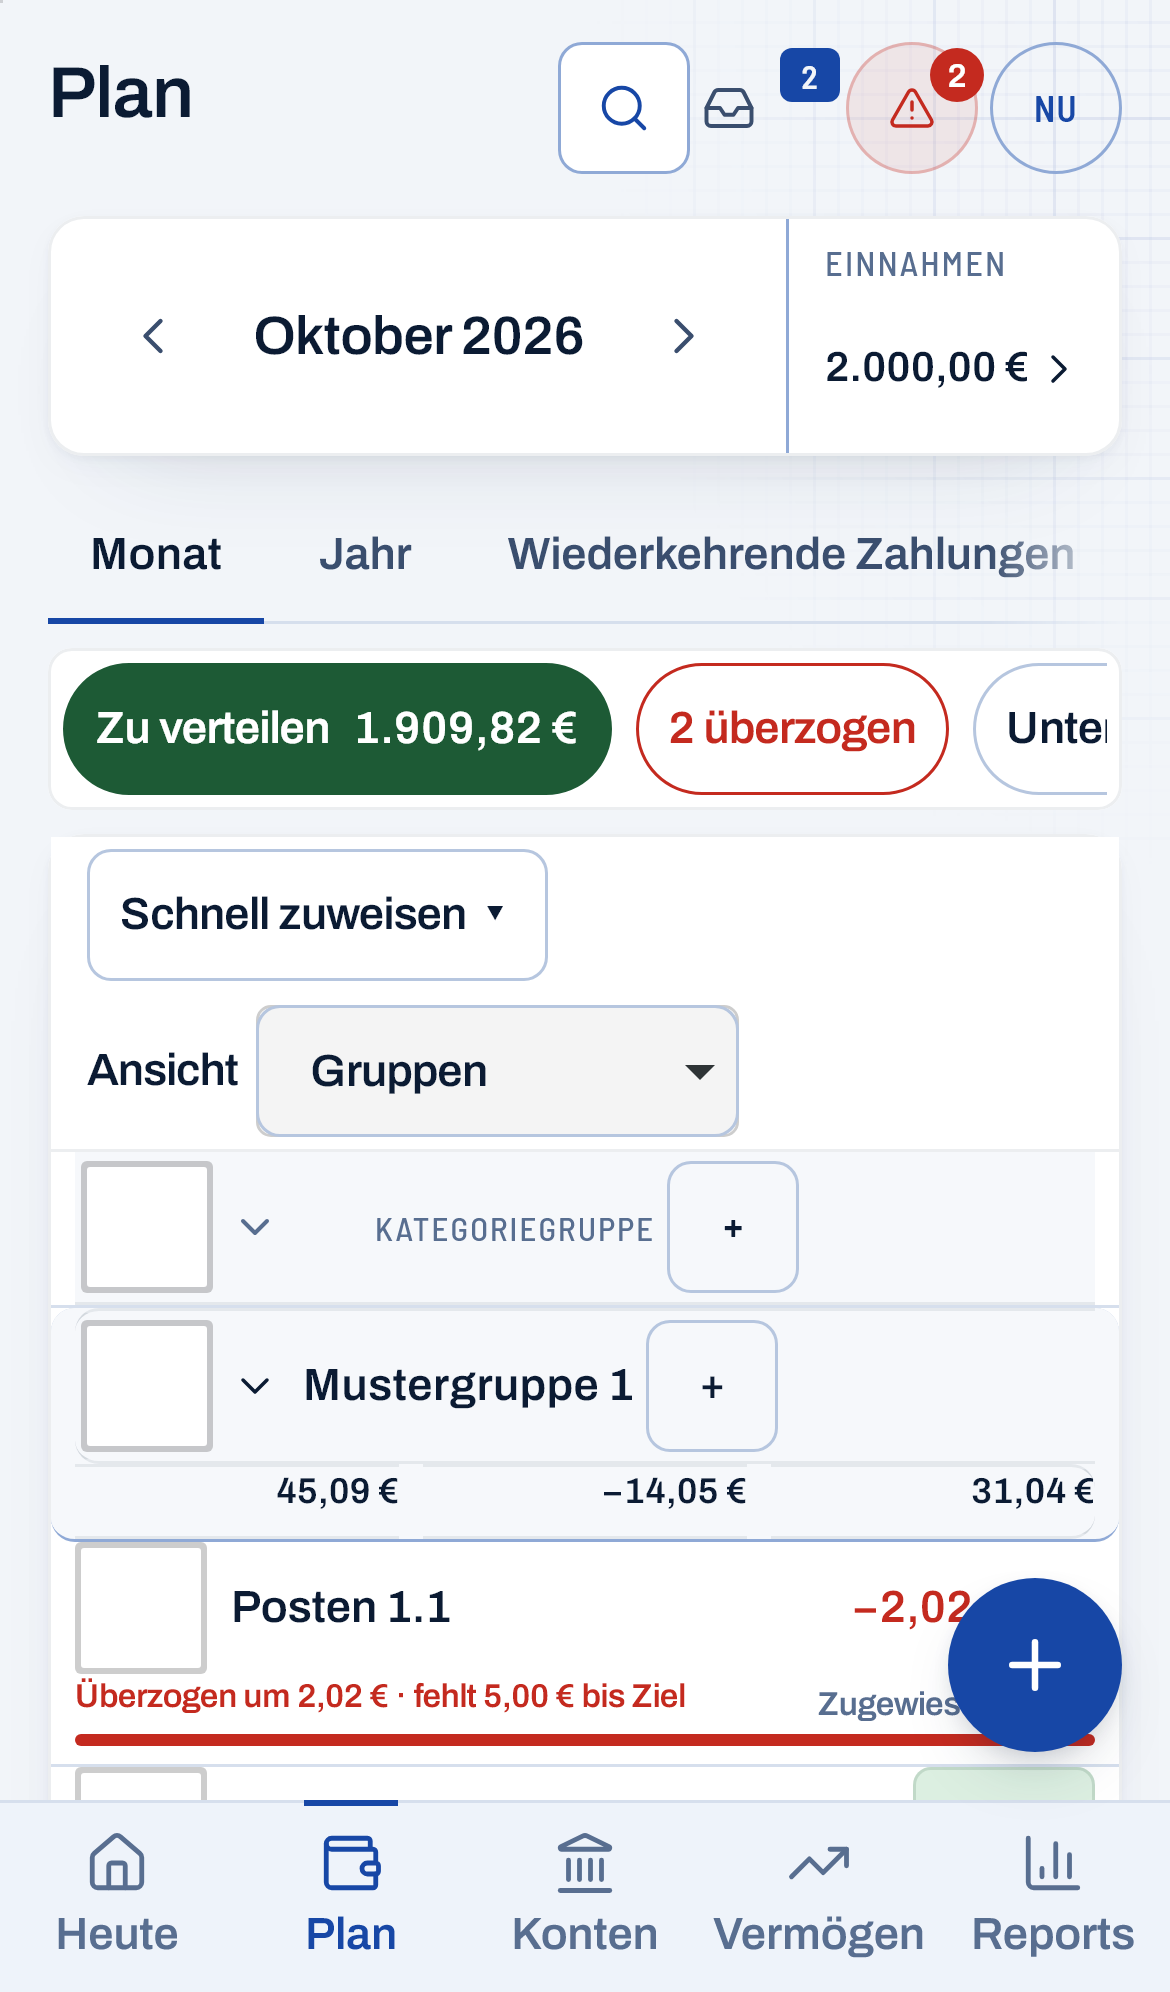
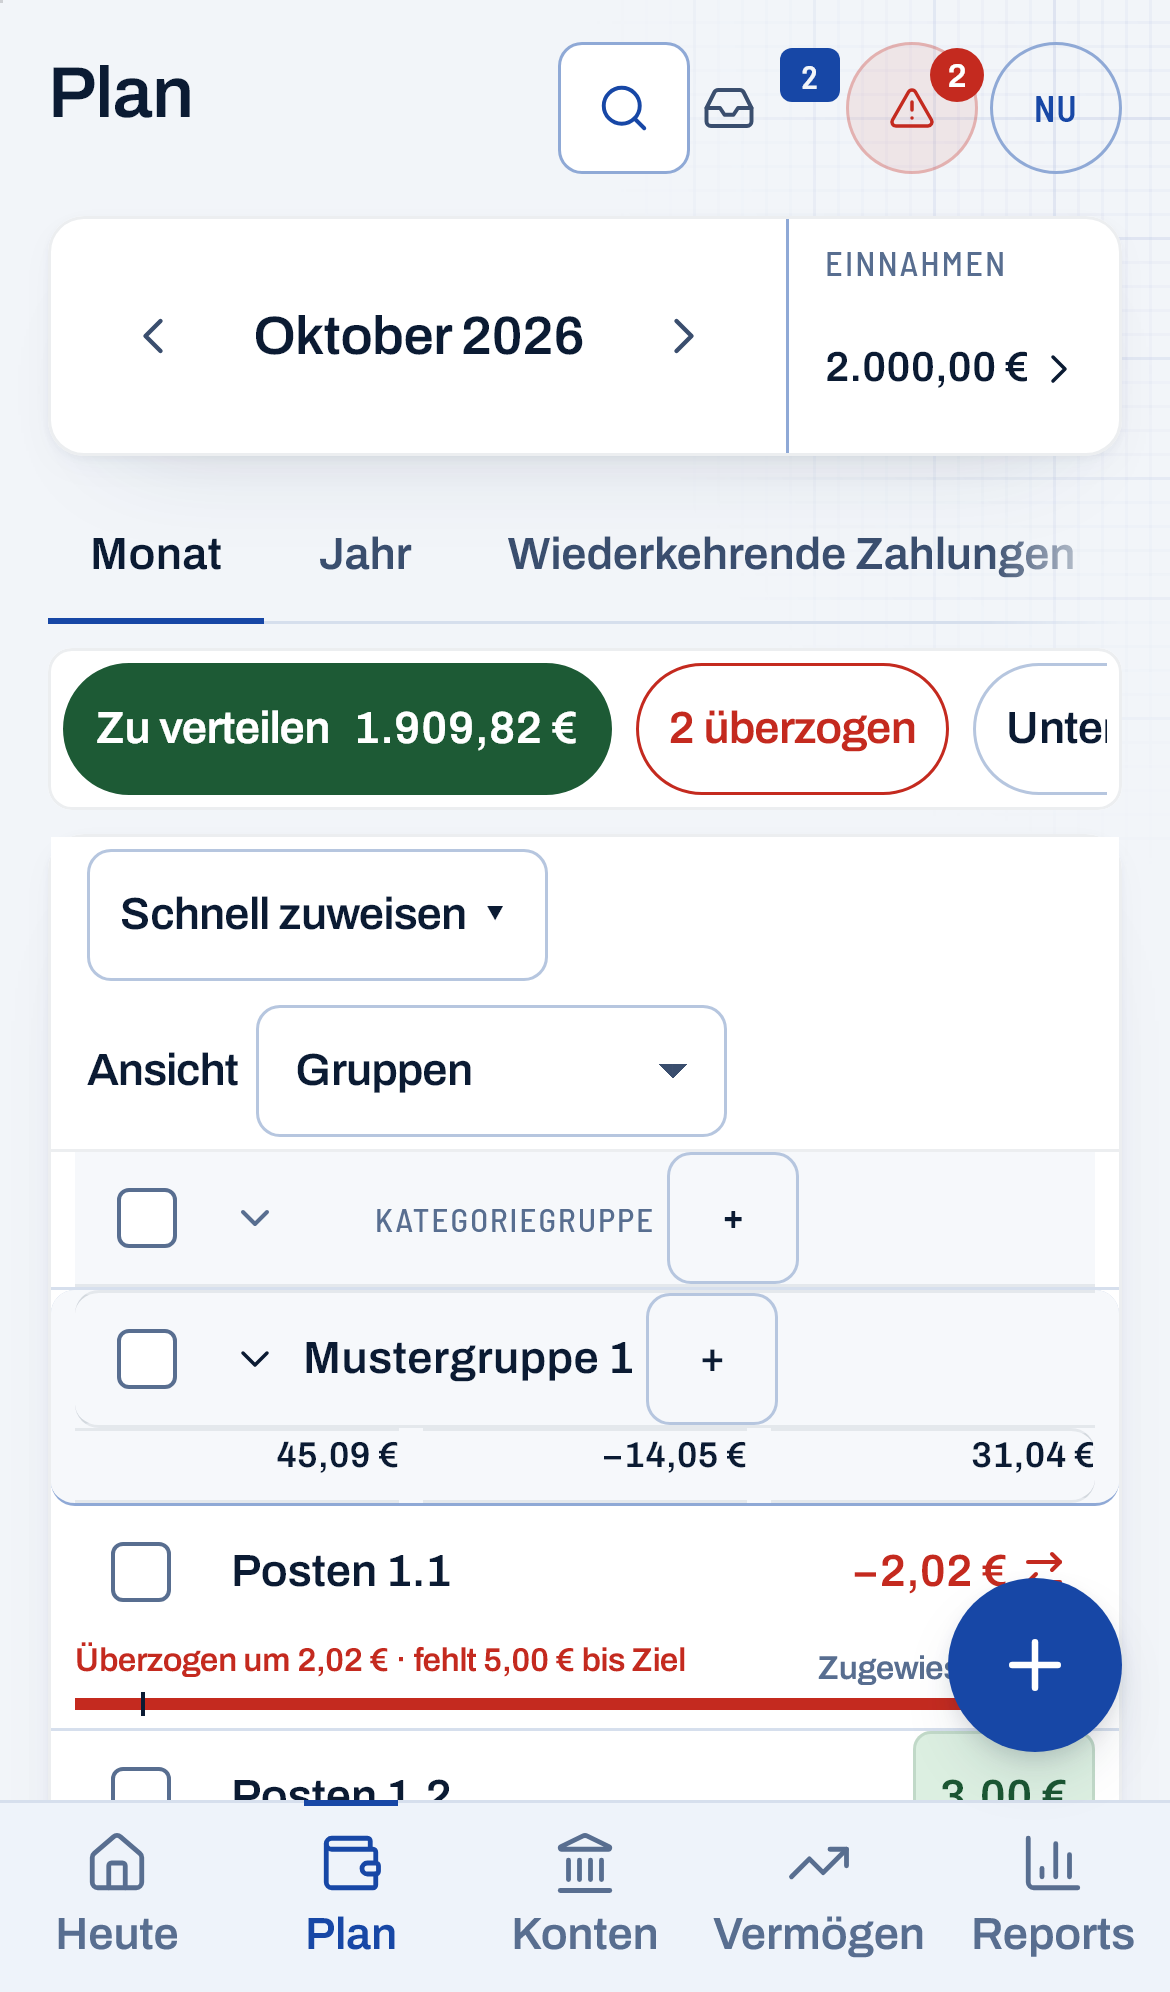
test(plan): verify current checkboxes and phone target dimensions

diff --git a/e2e/plan-compact-grid.spec.ts b/e2e/plan-compact-grid.spec.ts
@@ -184,9 +184,9 @@ test('compact groups retain cent totals, add controls, keyboard and multiple mon
   });
   for (const scheme of ['light', 'dark'] as const) {
     await page.emulateMedia({ colorScheme: scheme });
-    expect(
-      await page.evaluate(() => document.documentElement.scrollWidth <= window.innerWidth),
-    ).toBe(true);
+    expect(await page.evaluate(() => document.documentElement.scrollWidth)).toBeLessThanOrEqual(
+      page.viewportSize()!.width,
+    );
     if (!desktop) {
       const rows = await page
         .locator('.ptable .prow')
@@ -208,11 +208,14 @@ test('compact groups retain cent totals, add controls, keyboard and multiple mon
         '.plan-topbar summary',
         '.plan-chip-scroll > .btn',
       ]) {
-        const heights = await page
-          .locator(selector)
-          .evaluateAll((elements) => elements.map((e) => e.getBoundingClientRect().height));
+        const sizes = await page.locator(selector).evaluateAll((elements) =>
+          elements.map((e) => {
+            const rect = e.getBoundingClientRect();
+            return { width: rect.width, height: rect.height };
+          }),
+        );
         expect(
-          heights.every((h) => h >= 44),
+          sizes.every(({ width, height }) => width >= 44 && height >= 44),
           selector,
         ).toBe(true);
       }

diff --git a/docs/evidence/plan-zerosum-grid/PR.md b/docs/evidence/plan-zerosum-grid/PR.md
@@ -1,31 +1,21 @@
-Plan month category rows now show net spending, target shortfall and a green two-tone bar instead of class swatches/progress. Group header bands have rounded corners and gaps, selection checkboxes and inline category creation; the table header owns select-all, collapse-all and group creation. Existing colours, cent guards, audited writes and undo remain.
+Plan month rows now show cent-exact spending status and a green two-tone bar. Rounded group bands and the table header contain group/overall selection, collapse and creation controls. Desktop inline editing and the existing assignment, cover, move, quick-assignment and undo paths remain shared.
 
-On phones, chips scroll in one sticky line. Rows use name/available, status/assigned and bar, with the available pill opening the existing inspector. Cover and distribution proposal controls stay on the first line. Alternative views, C/G shortcuts, desktop inline editing and multiple months remain available. The chip panels sit outside their horizontal scroller to keep disclosures visible; Escape restores their trigger focus.
+Phone rows put the name and available amount first, followed by spending/assignment and the bar. Chips use one sticky scrolling line, and the available pill opens the existing inspector. C/G shortcuts, alternative views and multiple months remain available. The branch includes the global checkbox/select correction and the saved-order regression fix.
 
-Refs #448
+## Validation
 
-Validation (synthetic local ledgers only):
+Fresh web TypeScript, CSS scale and E2E build passed; 19 targeted unit tests passed. All 28 affected Playwright cases passed across desktop, Chromium phone and WebKit, covering contact rename, group/category creation, scale, pace markers, quick assignment, inspector actions, exact cents, cover, move, guards, rollover and undo.
 
-- Web package `tsc`: exit 0. Changed TypeScript ESLint, Prettier and CSS scale checks: exit 0. `git diff --check`: clean.
-- Affected Vitest files (`plan-model.test.ts`, `plan-form-dialogs.test.tsx`): **19 passed**. Spending cases cover exact cents, refunds, exhausted/empty/overspent envelopes and one-cent target shortfall; the two new tests failed before implementation.
-- `npm run build:e2e`: exit 0; subsequent web-only rebuilds verified display corrections. Existing dependency annotation, mixed-import and bundle-size warnings remain.
-- Changed Plan E2E specs (`plan-compact-grid`, `plan-inspector`, `plan`): **16 passed** including setup, desktop and Chromium mobile. After the final pill alignment/rounded-band polish, compact-grid rerun: **6 passed**, including desktop, Chromium mobile and WebKit iPhone.
-- Desktop retains the existing stricter ≤40px row/≤36px group/fold assertions. Phone rows ≤76px, chip bar ≤56px, touch targets ≥44px, no horizontal page overflow and zero main-content Axe violations in light/dark. Literal cent totals, selection, keyboard creation/collapse, arithmetic assignment, guard refusal, cover, move, quick assignment, undo and rollover remain tested.
-- E2E used `E2E_PORT=5020 E2E_START_TIMEOUT=300000 E2E_LEDGER_PORT_OFFSET=100`, one worker. The default isolated port was occupied by another job; no process from another job was stopped. No full check/full E2E suite was run, as required for this package; CI is the final gate.
+The final compact-grid rerun passed six cases including setup. It strengthens the width guard against the real viewport and checks both touch-target dimensions, with light/dark Axe, 390px page width, phone controls at least 44px, desktop rows at most 40px and groups at most 36px. Changed test/config ESLint and Prettier checks passed. Targeted local checks use one worker under the owner's memory constraint; required final-head CI and Linux screenshot review gate delivery.
 
-Screenshots from the final compact-grid run:
+## Synthetic evidence from the integrated build
 
 | Viewport | Light | Dark |
 | --- | --- | --- |
-| Desktop Chromium, 1440 × 900 | [Light](desktop-light.png) | [Dark](desktop-dark.png) |
-| Chromium mobile, 390 × 844 | [Light](mobile-light.png) | [Dark](mobile-dark.png) |
-| WebKit iPhone, 390 CSS px (native 3× capture) | [Light](webkit-iphone-light.png) | [Dark](webkit-iphone-dark.png) |
+| Desktop 1440 | [Light](https://raw.githubusercontent.com/Grabman1987/budget/feat/plan-zerosum-grid/docs/evidence/plan-zerosum-grid/desktop-light.png) | [Dark](https://raw.githubusercontent.com/Grabman1987/budget/feat/plan-zerosum-grid/docs/evidence/plan-zerosum-grid/desktop-dark.png) |
+| Chromium phone 390 | [Light](https://raw.githubusercontent.com/Grabman1987/budget/feat/plan-zerosum-grid/docs/evidence/plan-zerosum-grid/mobile-light.png) | [Dark](https://raw.githubusercontent.com/Grabman1987/budget/feat/plan-zerosum-grid/docs/evidence/plan-zerosum-grid/mobile-dark.png) |
+| WebKit iPhone 390 | [Light](https://raw.githubusercontent.com/Grabman1987/budget/feat/plan-zerosum-grid/docs/evidence/plan-zerosum-grid/webkit-iphone-light.png) | [Dark](https://raw.githubusercontent.com/Grabman1987/budget/feat/plan-zerosum-grid/docs/evidence/plan-zerosum-grid/webkit-iphone-dark.png) |
 
-Visual baselines were not regenerated. Review the affected Plan design references `design/screens/desktop/plan-monat.webp` and `design/screens/mobile/plan-monat.webp` against the approved Z1 override; no Playwright snapshot-baseline files changed.
+Physical-iPhone review can follow deployment. Z2/Z3 and the later phone action package follow separately.
 
-Open/owner steps: wait for required CI and review the six synthetic screenshots, then check scrolling and editing on a physical iPhone. The base branch still enforces 44px dimensions on native checkbox inputs via global `base.css`; its visible large Safari checkboxes belong to the separate global correction. Z1 sizes only the label and does not override input dimensions. Z2/Z3 and the later phone action package remain separate. No migration, credentials, provider calls, deployment or merge is involved.
-
-Delivery limitation: normal `git add` and `git commit` fail when creating the shared worktree's `index.lock` (`Permission denied`). One single-file staging attempt succeeded for `apps/web/src/budget/plan-model.ts`; normal `git restore --staged` also fails, so the index could not be cleared. No commit was created. `git push -u origin HEAD` succeeded but published only the unchanged base commit `3d164f93`. The implementation and this ready-to-use PR body remain local; repository metadata permissions must be restored before staging, committing and publishing the actual change. No ACL changes or alternate Git metadata paths were used.
-
-
-🤖 Generated with [Claude Code](https://claude.com/claude-code)
+Refs #448

diff --git a/docs/ROADMAP.md b/docs/ROADMAP.md
@@ -5,8 +5,8 @@
 - [x] Spaced rounded group bands, group/overall checkboxes (including mixed selection), header creation shortcuts and retained C/G forms, alternative views and multiple months.
 - [x] Cent-exact spending status with underfunded-target suffix; hatched spent/solid remaining green bars, red overspending and retained available pills. Class remains in the inspector.
 - [x] One scrolling sticky phone chip line; compact name/available, status/assigned and bar rows, 44px label/name/pill targets, existing inspector edits and same-line cover/suggestion actions.
-- [x] Focused web typecheck, changed-file lint/format/CSS scale, 19 unit tests and 16 E2E/setup cases; final styling verified by 6 desktop/Chromium-mobile/WebKit-iPhone cases, light/dark Axe and no page overflow. [Evidence and PR body](evidence/plan-zerosum-grid/PR.md).
-- [ ] Required CI, owner visual/device acceptance and the separately owned global native-checkbox sizing correction. No local snapshot-baseline regeneration; Z2/Z3 and phone action layout remain separate packages.
+- [x] Fresh web typecheck, changed-file lint/format/CSS scale, 19 unit tests and 28 affected E2E/setup cases. Final compact-grid rerun: 6 desktop/Chromium-phone/WebKit cases with light/dark Axe, actual viewport-width guard and both touch dimensions at least 44px. Global checkbox/select correction integrated and six synthetic images refreshed. [Evidence and PR body](evidence/plan-zerosum-grid/PR.md).
+- [ ] Required final-head CI, Linux snapshot review, deployed revision and owner device acceptance. No local Linux baseline generation; Z2/Z3 and phone action layout remain separate packages.
 
 ### Account register: upcoming captures and next recurrence — #453 (2026-10-13)
 
